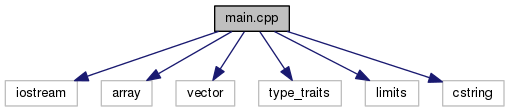
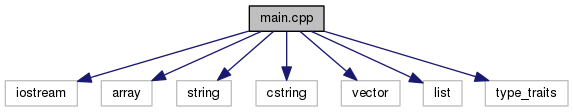
Deploy smart-roger/homework04 to github.com/smart-roger/homework04.git:gh-pages

diff --git a/main_8cpp.html b/main_8cpp.html
@@ -86,10 +86,11 @@ var searchBox = new SearchBox("searchBox", "search",false,'Поиск');
 <div class="contents">
 <div class="textblock"><code>#include &lt;iostream&gt;</code><br/>
 <code>#include &lt;array&gt;</code><br/>
-<code>#include &lt;vector&gt;</code><br/>
-<code>#include &lt;type_traits&gt;</code><br/>
-<code>#include &lt;limits&gt;</code><br/>
+<code>#include &lt;string&gt;</code><br/>
 <code>#include &lt;cstring&gt;</code><br/>
+<code>#include &lt;vector&gt;</code><br/>
+<code>#include &lt;list&gt;</code><br/>
+<code>#include &lt;type_traits&gt;</code><br/>
 </div><div class="textblock"><div class="dynheader">
 Граф включаемых заголовочных файлов для main.cpp:</div>
 <div class="dyncontent">
@@ -105,20 +106,18 @@ var searchBox = new SearchBox("searchBox", "search",false,'Поиск');
 &lt; std::is_integral&lt; T &gt;::value, <br class="typebreak"/>
 void &gt;::type&#160;</td><td class="memTemplItemRight" valign="bottom"><a class="el" href="main_8cpp.html#aed9425f14250751ff28735baf53a4cc3">printIP</a> (const T &amp;val, std::ostream &amp;stream)</td></tr>
 <tr class="separator:aed9425f14250751ff28735baf53a4cc3"><td class="memSeparator" colspan="2">&#160;</td></tr>
-<tr class="memitem:ac35b38cf4c146b8f49d9c5bd6b895c36"><td class="memTemplParams" colspan="2">template&lt;typename T &gt; </td></tr>
-<tr class="memitem:ac35b38cf4c146b8f49d9c5bd6b895c36"><td class="memTemplItemLeft" align="right" valign="top">std::enable_if<br class="typebreak"/>
+<tr class="memitem:ac0b7728c76b6107c95ec514fe99ac2c6"><td class="memTemplParams" colspan="2">template&lt;class T &gt; </td></tr>
+<tr class="memitem:ac0b7728c76b6107c95ec514fe99ac2c6"><td class="memTemplItemLeft" align="right" valign="top">std::enable_if&lt; std::is_same<br class="typebreak"/>
+&lt; T, std::string &gt;::value, <br class="typebreak"/>
+void &gt;::type&#160;</td><td class="memTemplItemRight" valign="bottom"><a class="el" href="main_8cpp.html#ac0b7728c76b6107c95ec514fe99ac2c6">printIP</a> (const T &amp;val, std::ostream &amp;stream)</td></tr>
+<tr class="separator:ac0b7728c76b6107c95ec514fe99ac2c6"><td class="memSeparator" colspan="2">&#160;</td></tr>
+<tr class="memitem:a50ab2fbc03a7e5eb649d5086afe4366b"><td class="memTemplParams" colspan="2">template&lt;class T &gt; </td></tr>
+<tr class="memitem:a50ab2fbc03a7e5eb649d5086afe4366b"><td class="memTemplItemLeft" align="right" valign="top">std::enable_if<br class="typebreak"/>
 &lt;!std::is_integral&lt; T &gt;::value <br class="typebreak"/>
-&amp;&amp;std::is_integral&lt; typename <br class="typebreak"/>
-T::value_type &gt;::value, void &gt;<br class="typebreak"/>
-::type&#160;</td><td class="memTemplItemRight" valign="bottom"><a class="el" href="main_8cpp.html#ac35b38cf4c146b8f49d9c5bd6b895c36">printIP</a> (const T &amp;container, std::ostream &amp;stream)</td></tr>
-<tr class="separator:ac35b38cf4c146b8f49d9c5bd6b895c36"><td class="memSeparator" colspan="2">&#160;</td></tr>
-<tr class="memitem:a448b987a33a1e7cd3f29e2c062a423dc"><td class="memTemplParams" colspan="2">template&lt;typename T &gt; </td></tr>
-<tr class="memitem:a448b987a33a1e7cd3f29e2c062a423dc"><td class="memTemplItemLeft" align="right" valign="top">std::enable_if<br class="typebreak"/>
-&lt;!std::is_integral&lt; T &gt;::value <br class="typebreak"/>
-&amp;&amp;!std::is_integral&lt; typename <br class="typebreak"/>
-T::value_type &gt;::value, void &gt;<br class="typebreak"/>
-::type&#160;</td><td class="memTemplItemRight" valign="bottom"><a class="el" href="main_8cpp.html#a448b987a33a1e7cd3f29e2c062a423dc">printIP</a> (const T &amp;container, std::ostream &amp;stream)</td></tr>
-<tr class="separator:a448b987a33a1e7cd3f29e2c062a423dc"><td class="memSeparator" colspan="2">&#160;</td></tr>
+&amp;&amp;!std::is_same&lt; T, <br class="typebreak"/>
+std::string &gt;::value,void &gt;<br class="typebreak"/>
+::type&#160;</td><td class="memTemplItemRight" valign="bottom"><a class="el" href="main_8cpp.html#a50ab2fbc03a7e5eb649d5086afe4366b">printIP</a> (const T &amp;container, std::ostream &amp;stream)</td></tr>
+<tr class="separator:a50ab2fbc03a7e5eb649d5086afe4366b"><td class="memSeparator" colspan="2">&#160;</td></tr>
 <tr class="memitem:abf9e6b7e6f15df4b525a2e7705ba3089"><td class="memItemLeft" align="right" valign="top">int&#160;</td><td class="memItemRight" valign="bottom"><a class="el" href="main_8cpp.html#abf9e6b7e6f15df4b525a2e7705ba3089">main</a> (int argc, char const *argv[])</td></tr>
 <tr class="separator:abf9e6b7e6f15df4b525a2e7705ba3089"><td class="memSeparator" colspan="2">&#160;</td></tr>
 </table>
@@ -176,18 +175,47 @@ template&lt;typename T &gt; </div>
       </table>
 </div><div class="memdoc">
 <p>Шаблонная функция для печати айпишника из контейнера</p>
-<p>Реализация для целых чисел (char, int, long) double и строки не рассматриваются </p>
+<p>Реализация для целых чисел (char, int, long) контейнеры, double и строки не рассматриваются </p>
 
 </div>
 </div>
-<a class="anchor" id="ac35b38cf4c146b8f49d9c5bd6b895c36"></a>
+<a class="anchor" id="ac0b7728c76b6107c95ec514fe99ac2c6"></a>
 <div class="memitem">
 <div class="memproto">
 <div class="memtemplate">
-template&lt;typename T &gt; </div>
+template&lt;class T &gt; </div>
       <table class="memname">
         <tr>
-          <td class="memname">std::enable_if&lt;!std::is_integral &lt;T&gt;::value&amp;&amp; std::is_integral &lt;typename T::value_type&gt;::value, void&gt;::type printIP </td>
+          <td class="memname">std::enable_if&lt; std::is_same&lt;T, std::string&gt;::value, void&gt;::type printIP </td>
+          <td>(</td>
+          <td class="paramtype">const T &amp;&#160;</td>
+          <td class="paramname"><em>val</em>, </td>
+        </tr>
+        <tr>
+          <td class="paramkey"></td>
+          <td></td>
+          <td class="paramtype">std::ostream &amp;&#160;</td>
+          <td class="paramname"><em>stream</em>&#160;</td>
+        </tr>
+        <tr>
+          <td></td>
+          <td>)</td>
+          <td></td><td></td>
+        </tr>
+      </table>
+</div><div class="memdoc">
+<p>Реализация функции для строк. Выводится "как есть" </p>
+
+</div>
+</div>
+<a class="anchor" id="a50ab2fbc03a7e5eb649d5086afe4366b"></a>
+<div class="memitem">
+<div class="memproto">
+<div class="memtemplate">
+template&lt;class T &gt; </div>
+      <table class="memname">
+        <tr>
+          <td class="memname">std::enable_if&lt;!std::is_integral &lt;T&gt;::value &amp;&amp; !std::is_same&lt;T, std::string&gt;::value ,void&gt;::type printIP </td>
           <td>(</td>
           <td class="paramtype">const T &amp;&#160;</td>
           <td class="paramname"><em>container</em>, </td>
@@ -205,36 +233,7 @@ template&lt;typename T &gt; </div>
         </tr>
       </table>
 </div><div class="memdoc">
-<p>Реализация вывода на печать адреса, когда аргумент - контейнер с целыми числами Для элементов контейнера вызывается метод std::to_string. Необходимо для корректного вывода значений типов char. </p>
-
-</div>
-</div>
-<a class="anchor" id="a448b987a33a1e7cd3f29e2c062a423dc"></a>
-<div class="memitem">
-<div class="memproto">
-<div class="memtemplate">
-template&lt;typename T &gt; </div>
-      <table class="memname">
-        <tr>
-          <td class="memname">std::enable_if&lt;!std::is_integral &lt;T&gt;::value &amp;&amp; !std::is_integral &lt;typename T::value_type&gt;::value, void&gt;::type printIP </td>
-          <td>(</td>
-          <td class="paramtype">const T &amp;&#160;</td>
-          <td class="paramname"><em>container</em>, </td>
-        </tr>
-        <tr>
-          <td class="paramkey"></td>
-          <td></td>
-          <td class="paramtype">std::ostream &amp;&#160;</td>
-          <td class="paramname"><em>stream</em>&#160;</td>
-        </tr>
-        <tr>
-          <td></td>
-          <td>)</td>
-          <td></td><td></td>
-        </tr>
-      </table>
-</div><div class="memdoc">
-<p>Реализация вывода на печать адреса, когда аргумент - контейнер НЕ с целыми числами (например, строками) Элементы контейнера выводятся непосредственно в переданный поток. </p>
+<p>Реализация вывода на печать адреса, когда аргумент - контейнер Для элементов контейнера вызывается метод std::to_string. Необходимо для корректного вывода значений типов char (иначе выводятся не числа, а символы). </p>
 
 </div>
 </div>

diff --git a/search/all_1.js b/search/all_1.js
@@ -1,4 +1,4 @@
 var searchData=
 [
-  ['printip',['printIP',['../main_8cpp.html#aed9425f14250751ff28735baf53a4cc3',1,'printIP(const T &amp;val, std::ostream &amp;stream):&#160;main.cpp'],['../main_8cpp.html#ac35b38cf4c146b8f49d9c5bd6b895c36',1,'printIP(const T &amp;container, std::ostream &amp;stream):&#160;main.cpp'],['../main_8cpp.html#a448b987a33a1e7cd3f29e2c062a423dc',1,'printIP(const T &amp;container, std::ostream &amp;stream):&#160;main.cpp']]]
+  ['printip',['printIP',['../main_8cpp.html#aed9425f14250751ff28735baf53a4cc3',1,'printIP(const T &amp;val, std::ostream &amp;stream):&#160;main.cpp'],['../main_8cpp.html#ac0b7728c76b6107c95ec514fe99ac2c6',1,'printIP(const T &amp;val, std::ostream &amp;stream):&#160;main.cpp'],['../main_8cpp.html#a50ab2fbc03a7e5eb649d5086afe4366b',1,'printIP(const T &amp;container, std::ostream &amp;stream):&#160;main.cpp']]]
 ];

diff --git a/search/functions_1.js b/search/functions_1.js
@@ -1,4 +1,4 @@
 var searchData=
 [
-  ['printip',['printIP',['../main_8cpp.html#aed9425f14250751ff28735baf53a4cc3',1,'printIP(const T &amp;val, std::ostream &amp;stream):&#160;main.cpp'],['../main_8cpp.html#ac35b38cf4c146b8f49d9c5bd6b895c36',1,'printIP(const T &amp;container, std::ostream &amp;stream):&#160;main.cpp'],['../main_8cpp.html#a448b987a33a1e7cd3f29e2c062a423dc',1,'printIP(const T &amp;container, std::ostream &amp;stream):&#160;main.cpp']]]
+  ['printip',['printIP',['../main_8cpp.html#aed9425f14250751ff28735baf53a4cc3',1,'printIP(const T &amp;val, std::ostream &amp;stream):&#160;main.cpp'],['../main_8cpp.html#ac0b7728c76b6107c95ec514fe99ac2c6',1,'printIP(const T &amp;val, std::ostream &amp;stream):&#160;main.cpp'],['../main_8cpp.html#a50ab2fbc03a7e5eb649d5086afe4366b',1,'printIP(const T &amp;container, std::ostream &amp;stream):&#160;main.cpp']]]
 ];
